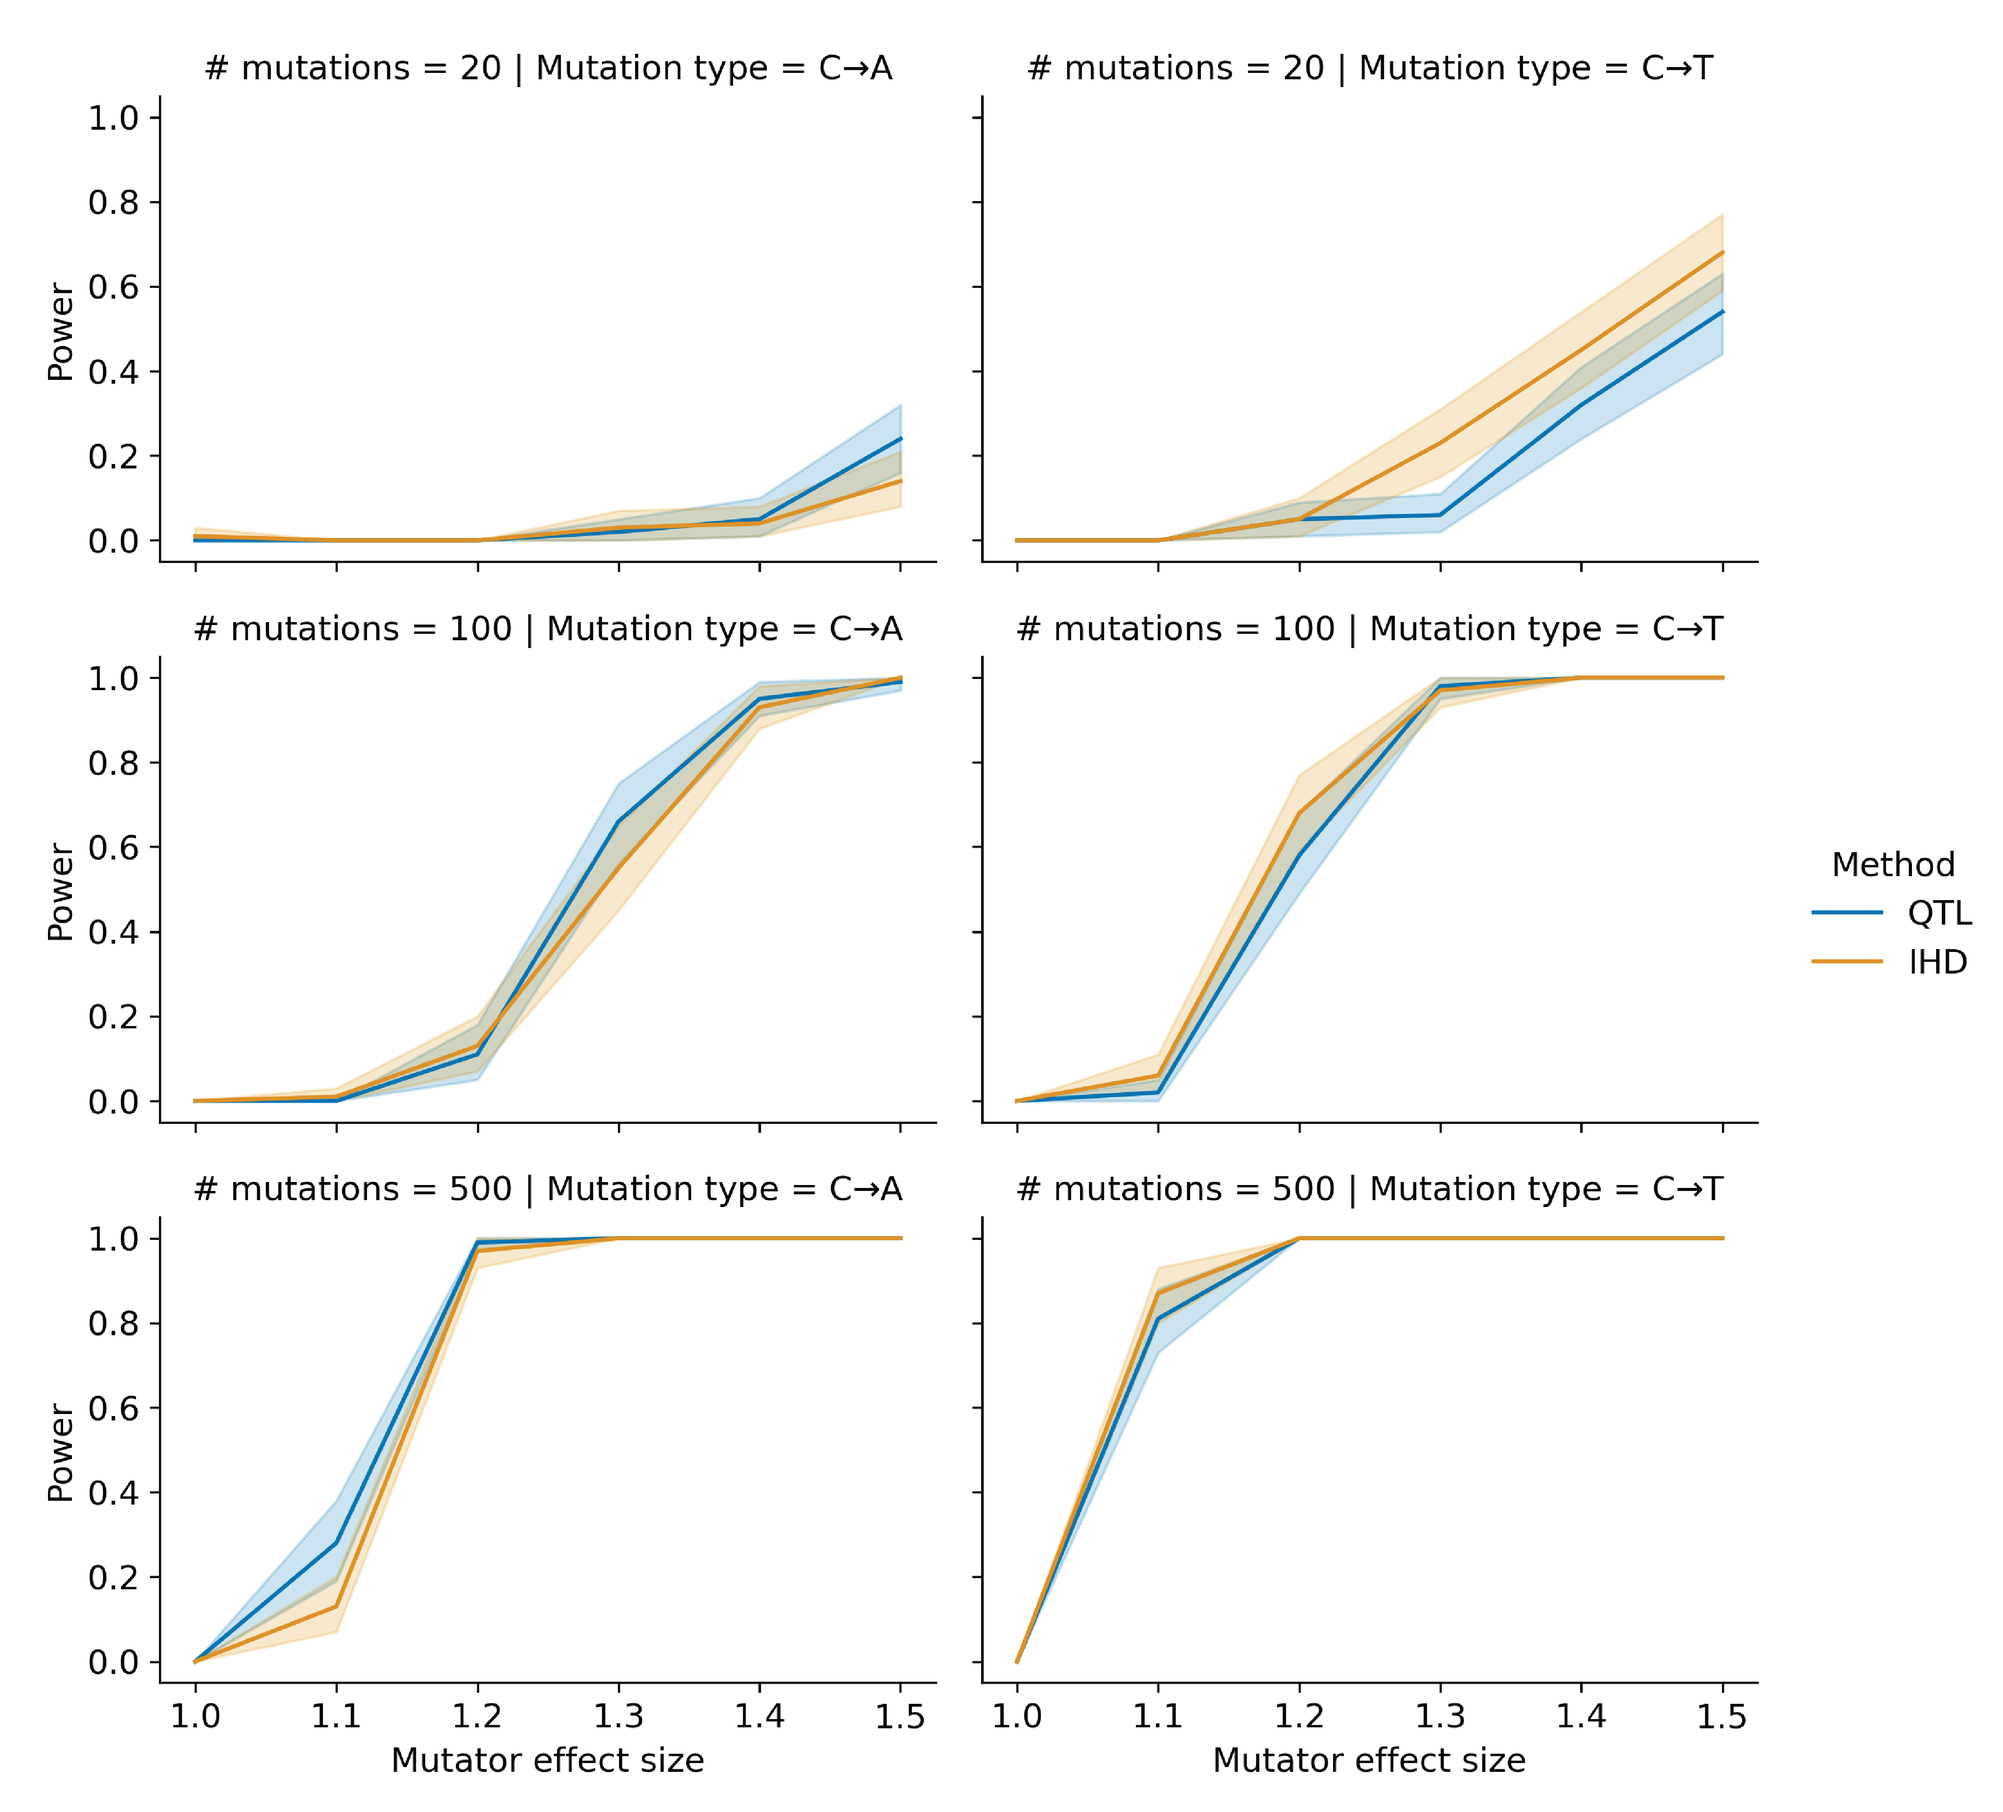
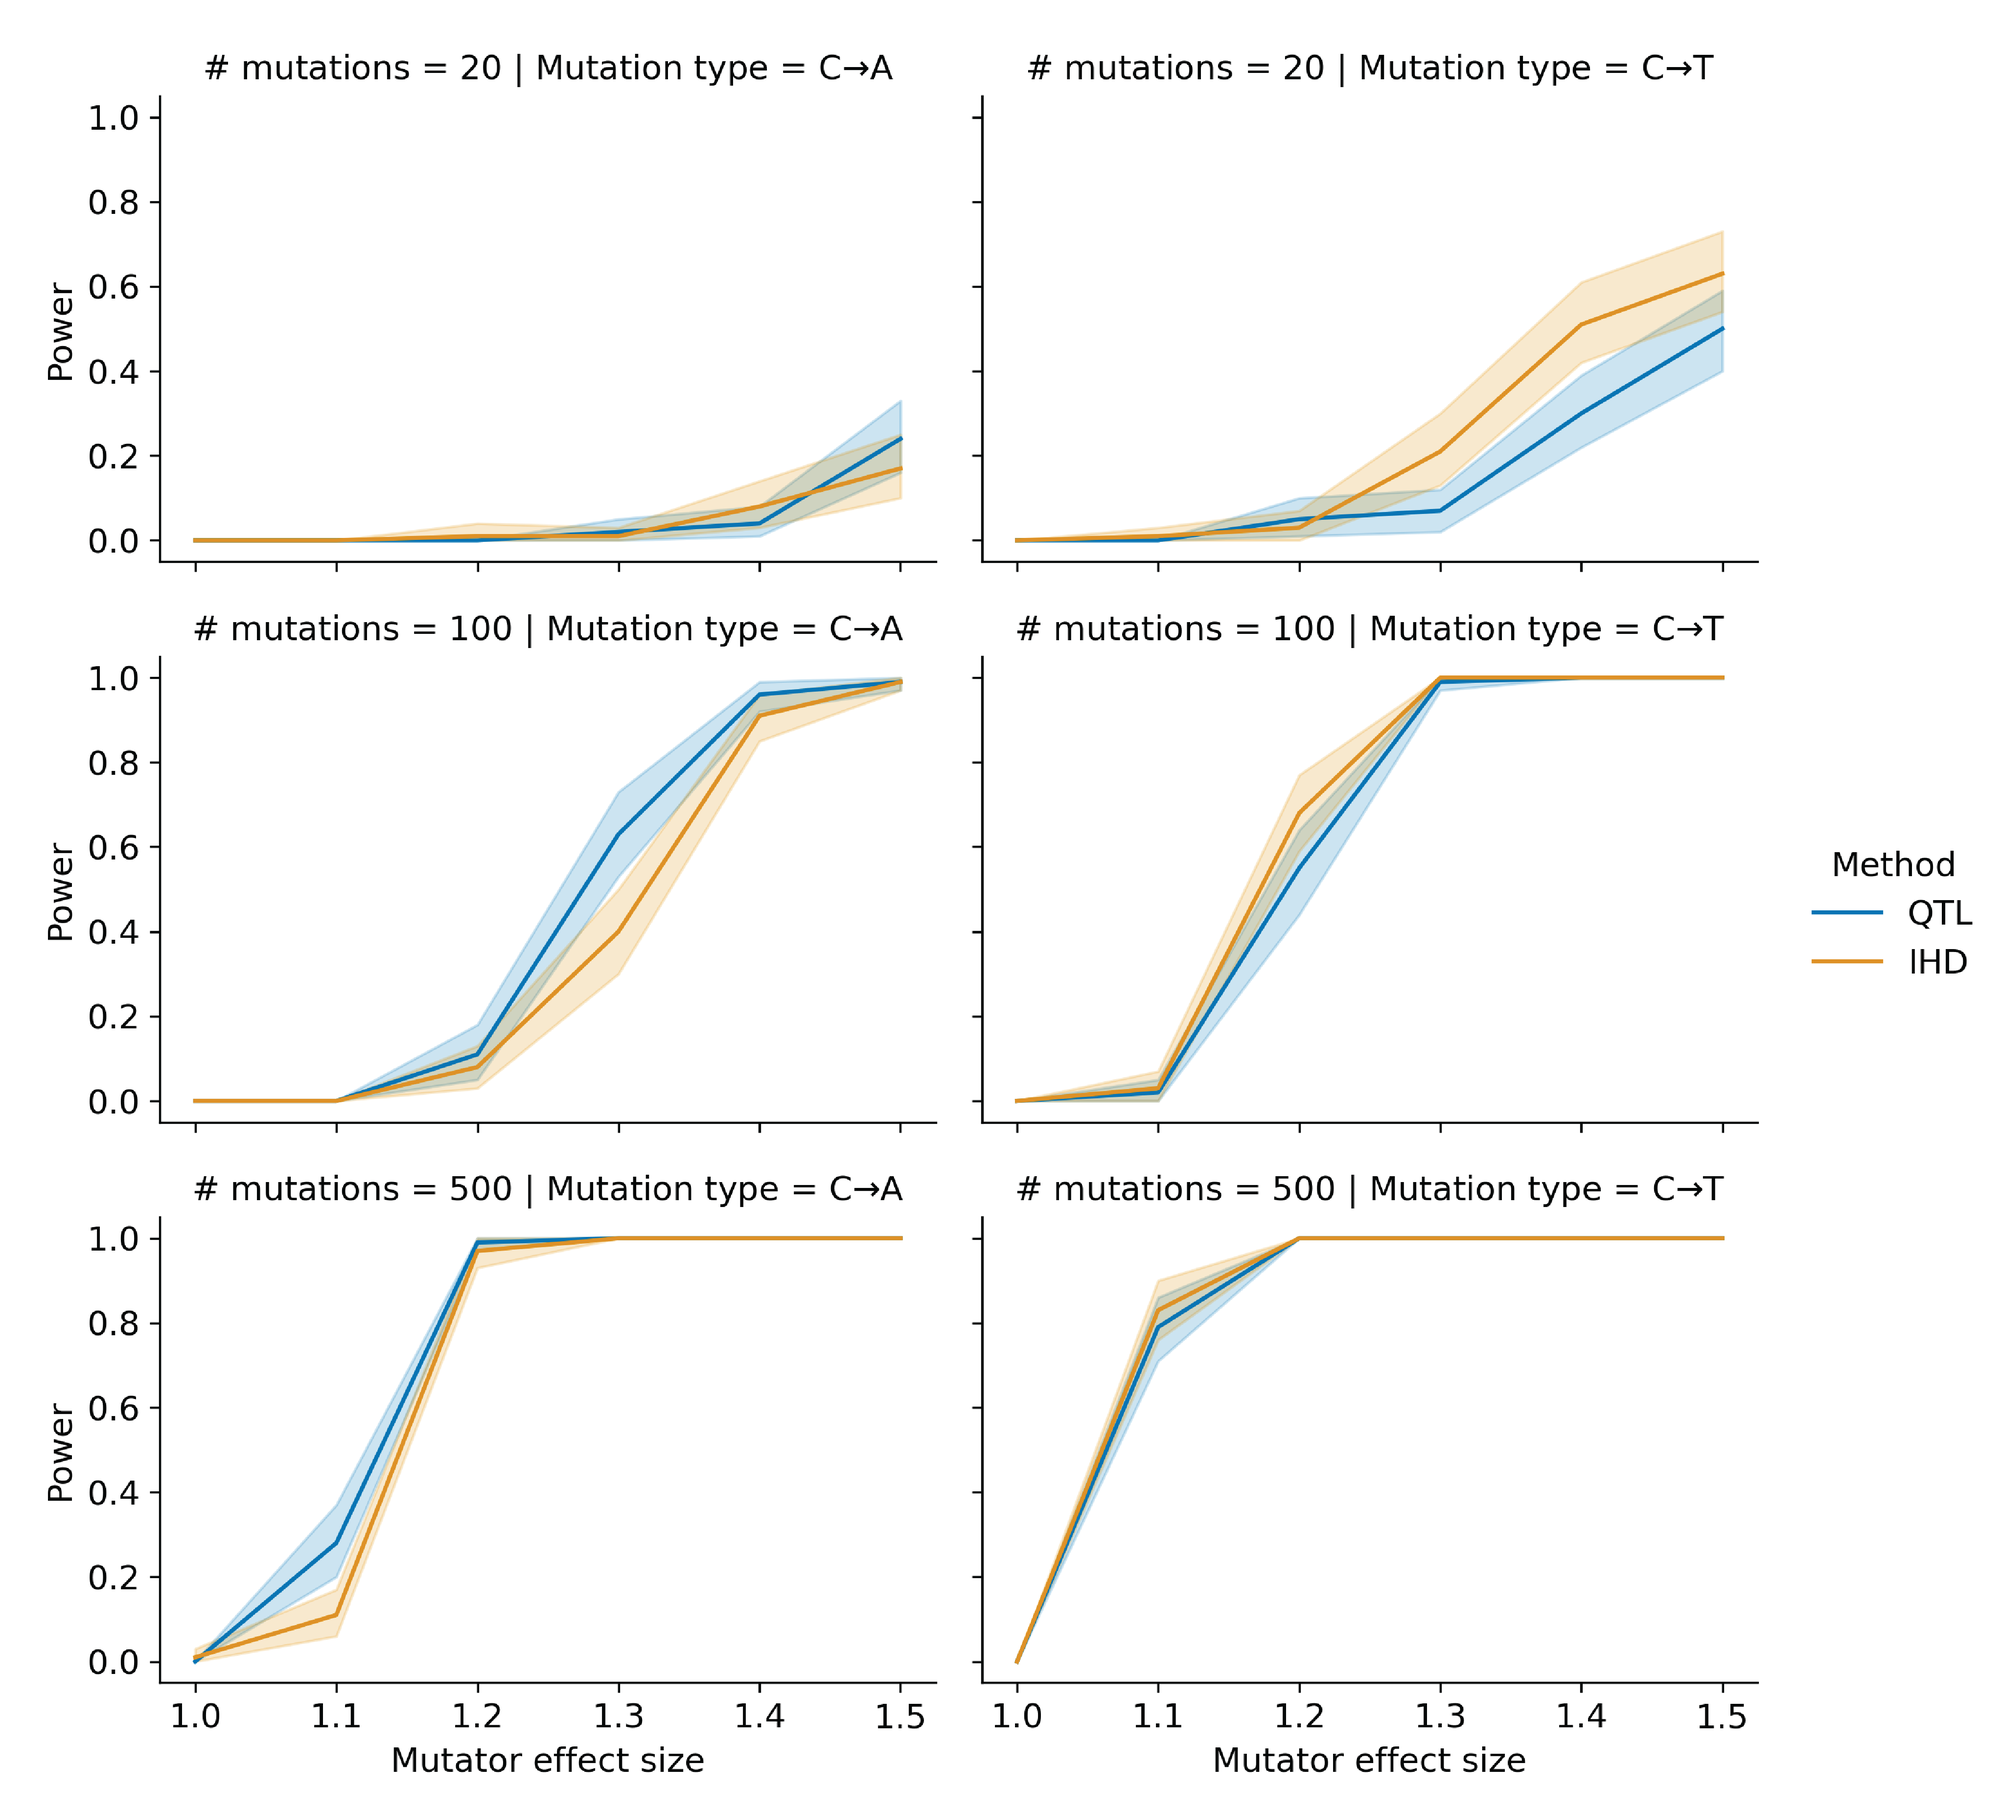
Add updated Figure 2 to emphasize C>A data, leave current Figure 2 as a Supplemental figure.

diff --git a/content/03.results.md b/content/03.results.md
@@ -28,7 +28,7 @@ Finally, we calculate the $1 - p$ percentile of the distribution of those maximu
 ### Re-identifying the mutator allele on chromosome 4 in the BXDs
 
 We applied our inter-haplotype distance method to 93 BXD RILs (Materials and Methods) with a total of 62,993 *de novo* germline mutations [@PMID:35545679]. 
-Using mutation data that were partitioned by 1-mer nucleotide context, we discovered a locus on chromosome 4 that was significantly associated with mutation spectrum variation (Figure {@fig:distance-results}A; maximum adjusted $\chi^2$ statistic of 352.7 at marker ID `rs52263933`; position 116.75 Mbp in GRCm38/mm10 coordinates). 
+Using mutation data that were partitioned by 1-mer nucleotide context, we discovered a locus on chromosome 4 that was significantly associated with mutation spectrum variation (Figure {@fig:distance-results}A; maximum adjusted cosine distance of 352.7 at marker ID `rs52263933`; position 116.75 Mbp in GRCm38/mm10 coordinates). 
 
 ![
 **Results of inter-haplotype distance scans in the BXD RILs.** 
@@ -48,9 +48,10 @@ C>A germline mutation rates are nearly 50% higher in BXDs that inherit *D* genot
 After confirming that the inter-haplotype distance method could recover the mutator locus overlapping *Mutyh*, we asked if our approach could identify additional mutator loci in the BXD. 
 To account for the effects of the large-effect mutator locus near *Mutyh*, we divided the BXD RILs into those with either *D* (n = 55) or *B* (n = 38) genotypes at `rs52263933`, and ran a genome-wide distance scan using each group separately (Figure {@fig:distance-results}B).
 
-Using the BXDs with *D* genotypes at `rs52263933`, we identified a locus on chromosome 6 that was significantly associated with mutation spectrum variation (Figure {@fig:distance-results}B and {@fig:distance-3mer}; maximum adjusted cosine distance of 81.0 at marker `rs31001331`; position 114.05 Mbp in GRCm38/mm10 coordinates).
-We queried the region surrounding this locus (+/- 5 Mbp) and discovered 16 protein-coding genes that harbored nonsynonymous differences between the parental C57BL/6J and DBA/2J strains. 
-Two of these genes were also annotated with the Gene Ontology term "DNA repair": *Ogg1* and *Mbd4*. 
+Using the BXDs with *D* genotypes at `rs52263933`, we identified a locus on chromosome 6 that was significantly associated with mutation spectrum variation (Figure {@fig:distance-results}B; maximum adjusted cosine distance of 81.0 at marker `rs31001331`; position 114.05 Mbp in GRCm38/mm10 coordinates).
+We performed QTL scans for the fractions of each 1-mer mutation type using these same mutation data, but none of these produced a genome-wide significant log-odds score at any locus (Figure {@fig:qtl-scans}; Materials and Method).
+We queried the region surrounding the locus on chromosome 6 (+/- 5 Mbp) and discovered 15 protein-coding genes that harbored nonsynonymous differences between the parental C57BL/6J and DBA/2J strains. 
+Two of these genes were also annotated with the Gene Ontology term "DNA repair": *Ogg1* and *Mbd4*).
 *Ogg1* encodes a key member of the base-excision repair response to oxidative DNA damage (a pathway that also includes *Mutyh*), and *Mbd4* encodes a protein that is involved in the repair of G:T mismatches at methylated CpG sites that have undergone spontaneous deamination. 
 Each of these genes harbors a single fixed nonsynonymous difference between the C57BL/6J and DBA/2J parental strains (Table @tbl:nonsyn-diffs). 
 
@@ -61,9 +62,12 @@ Each of these genes harbors a single fixed nonsynonymous difference between the 
 
 Table: Nonsynonymous mutations in DNA repair genes near the chr6 peak {#tbl:nonsyn-diffs}
 
+<!-- | *Setmar* | ENSMUST00000049246 | C>T | p.Leu103Phe | chr6:108,075,853 | 0.02 (intolerant/deleterious) |
+| *Setmar* | ENSMUST00000049246 | T>G | p.Ser273Arg | chr6:108,076,365 | 0.37 (tolerant/benign) | -->
+
 We also considered the possibility that expression quantitative trait loci (eQTLs), rather than nonsynonymous mutations, could contribute to the C>A mutator phenotype associated with the locus on chromosome 6. 
 Using GeneNetwork [@PMID:27933521] we mapped cis-eQTLs for *Ogg1* and *Mbd4* in a number of tissues, including hematopoetic stem cells, kidney, and spleen; we did not have access to expression data from germline tissues. 
-BXD genotypes near the $\chi^{2}$ statistic peak on chromosome 6 were significantly associated with *Ogg1* expression in some (but not all) tissues, and *D* genotypes were nearly always associated with decreased gene expression (Table @tbl:eqtl-results). 
+BXD genotypes near the cosine distance peak on chromosome 6 were significantly associated with *Ogg1* expression in some (but not all) tissues, and *D* genotypes were nearly always associated with decreased gene expression (Table @tbl:eqtl-results). 
 We discovered one significant cis-eQTL for *Mbd4* in spleen at which *D* alleles were associated with increased expression.
 We also queried a previously published collection of eQTLs derived from Diversity Outbred (DO) mouse embryonic stem cell expression data [@PMID:32795400], but did not find any significant eQTLs for either *Ogg1* or *Mbd4*.
 
@@ -81,8 +85,10 @@ A model that included an interaction term between genotypes at the two markers f
 
 ![
 **BXD mutation spectra are affected by alleles at both mutator loci.** 
-**a)** Fractions of *de novo* germline mutations in BXDs with either *D* or *B* genotypes at markers `rs52263933` and `rs31001331`, stratified by mutation type. 
-**b)** $\log_2$-transformed ratios of 3-mer mutation fractions in BXDs with *D* genotypes at `rs52263933` and *D* vs. *B* haplotypes at `rs31001331`.
+**a)** C>A *de novo* germline mutation fractions in BXDs with either *D* or *B* genotypes at markers `rs52263933` and `rs31001331`. 
+**b)** Counts of C>A *de novo* germline mutation fractions in each BXD strain vs. the number of generations for which it was inbred. 
+Lines represent predicted C>A counts in each haplotype group from a Poisson regression (identity link), and shading around each line represents the 95% confidence interval for the predicted values.
+**c)** $\log_2$-transformed ratios of 3-mer mutation fractions in BXDs with *D* genotypes at `rs52263933` and *D* vs. *B* haplotypes at `rs31001331`.
 Comparisons for which a $\chi_2$ test of independence returned p < $\frac{0.05}{96}$ (Bonferonni corrected p < 0.05) are annotated with a white dot.
 ](images/fig-spectra-comparison.png){#fig:spectra-comparison width=7in} 
 
